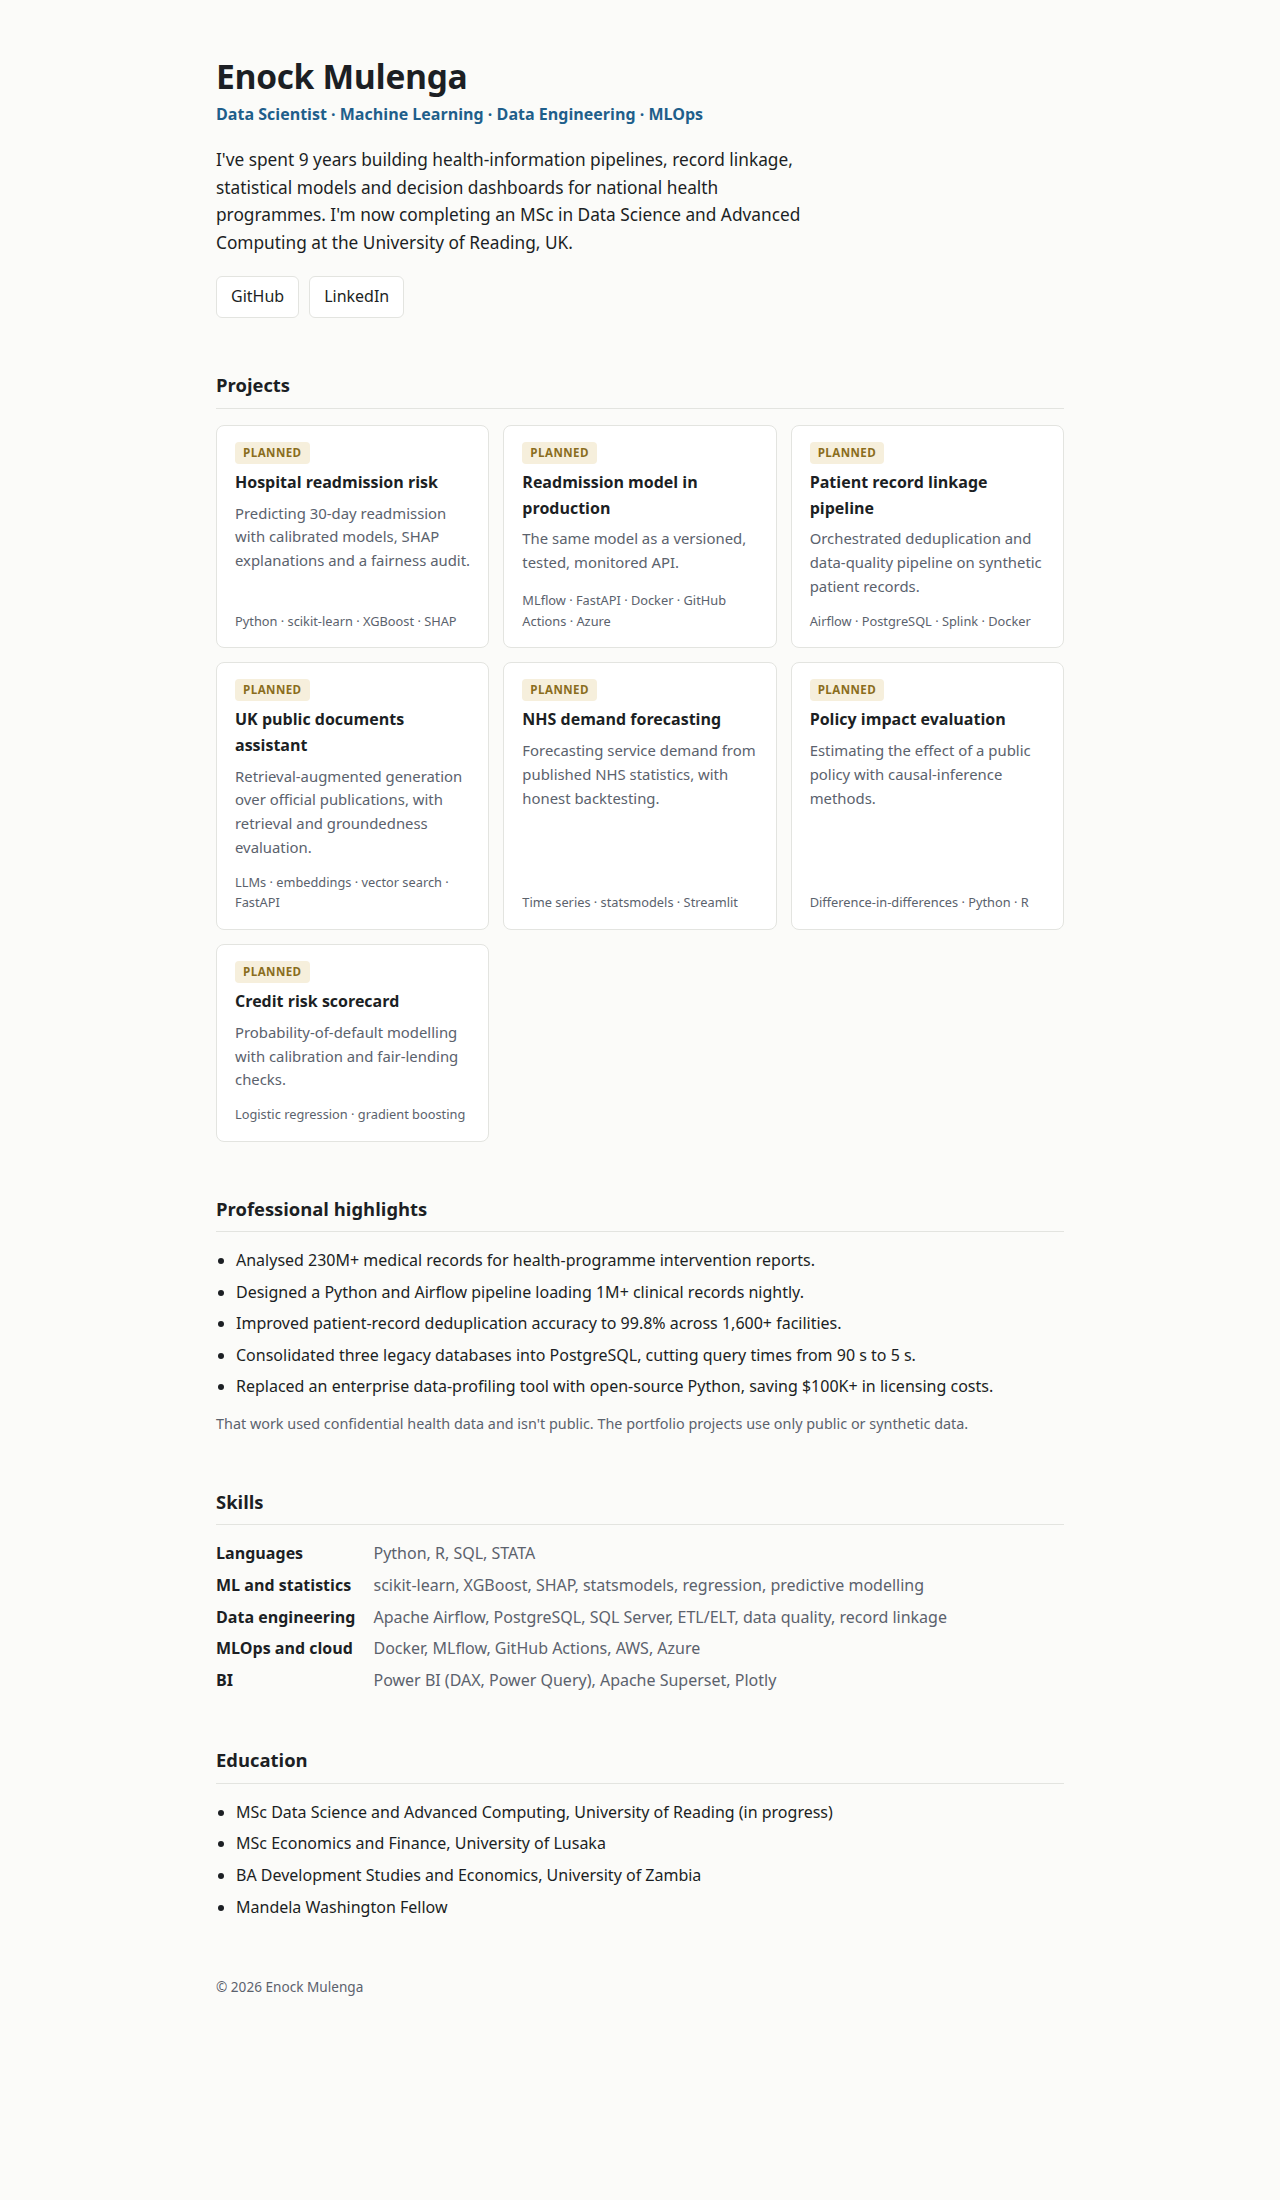
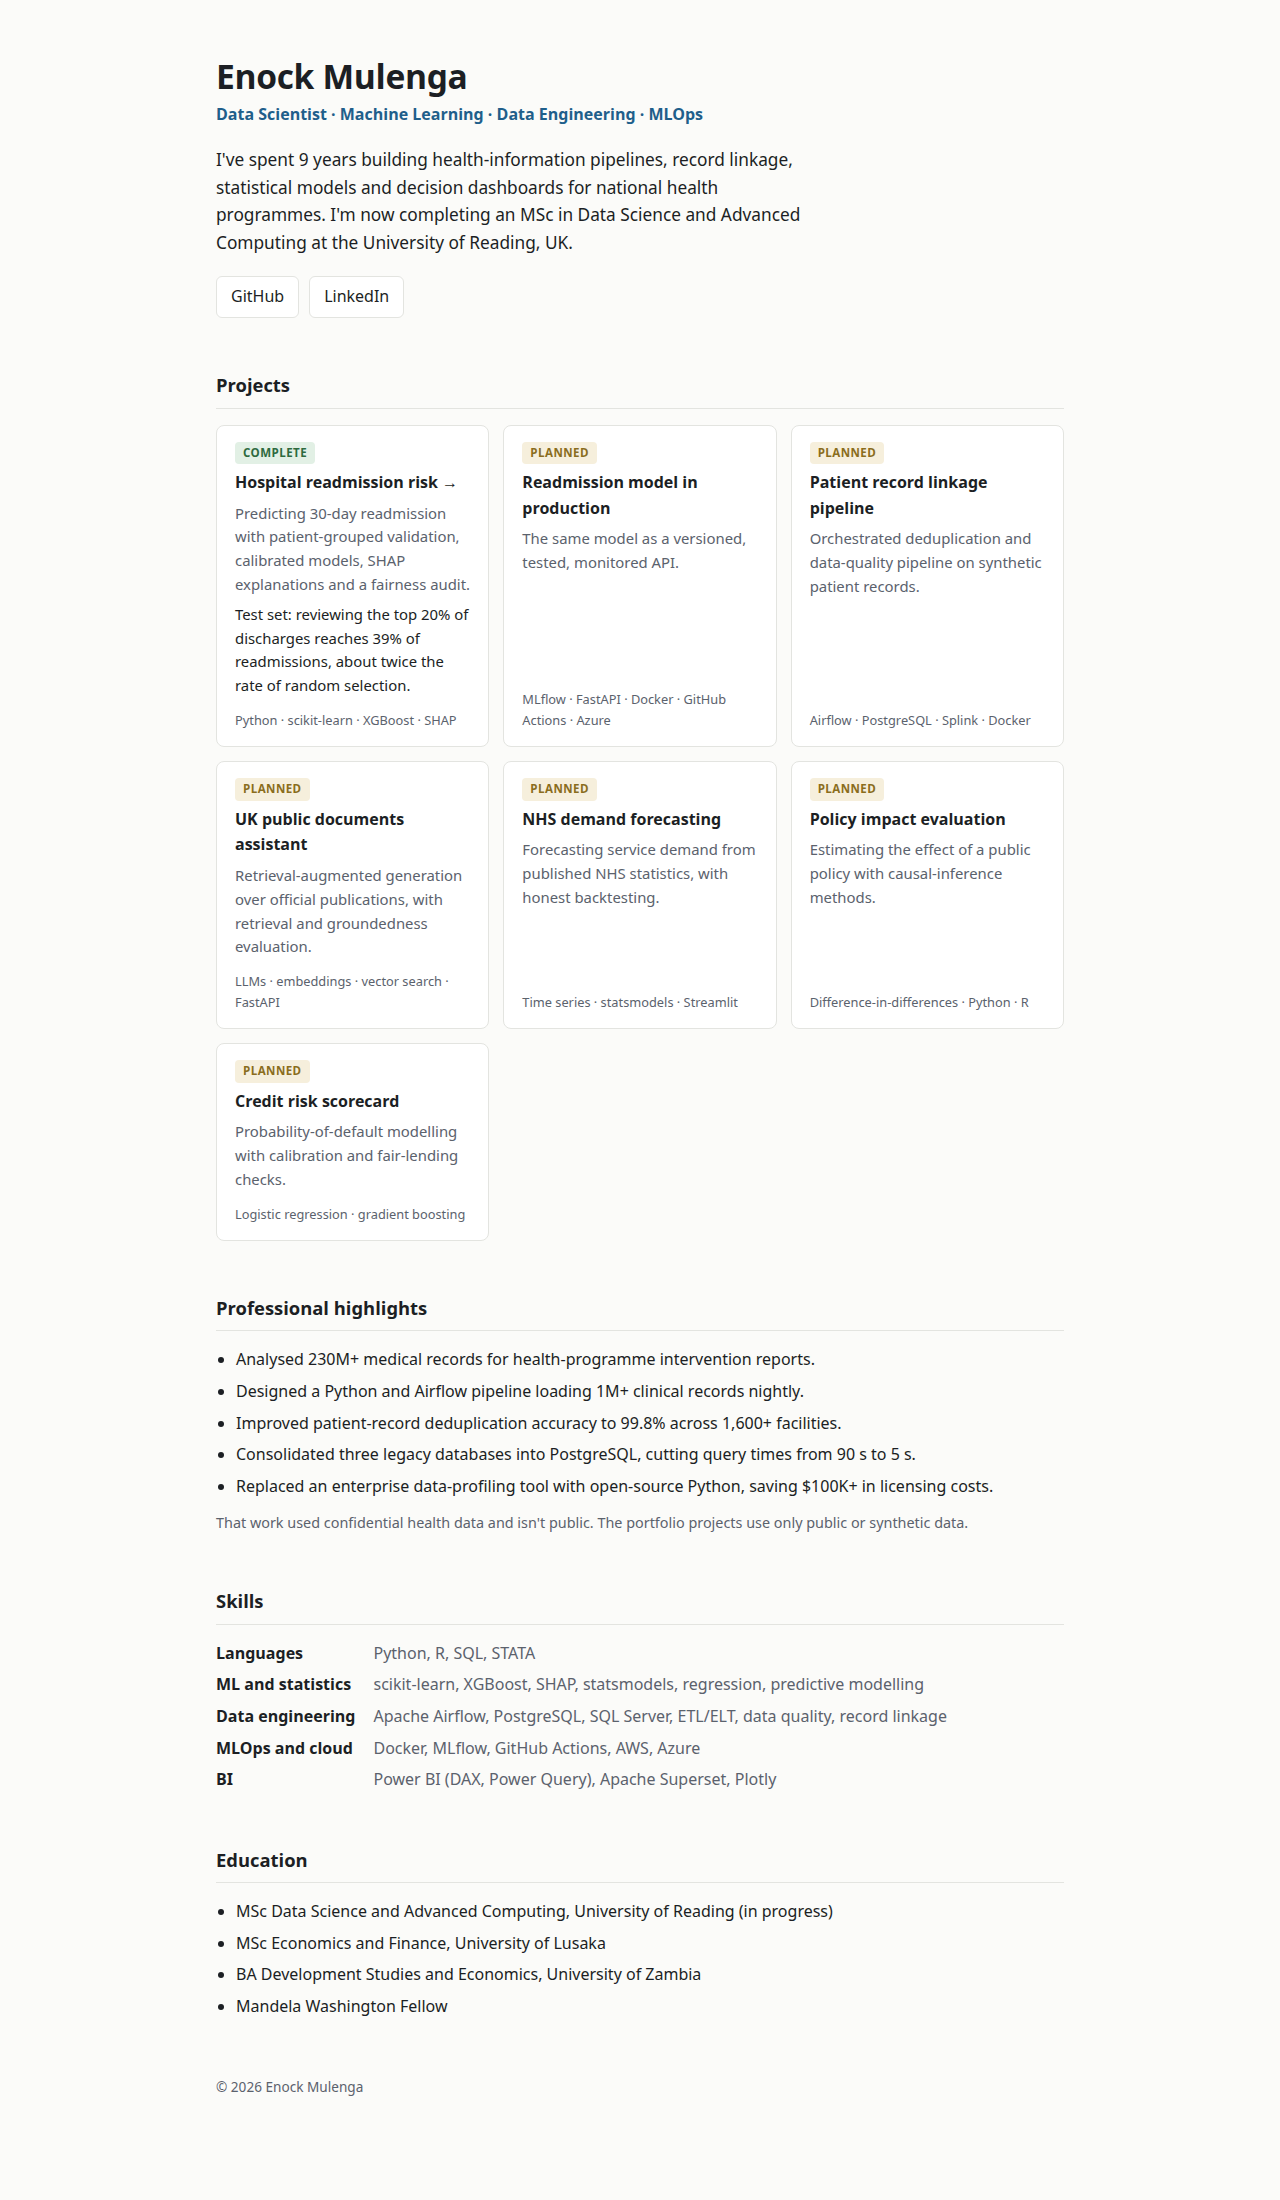
Mark readmission risk project complete and link it
- New "Complete" status style (light 5.5:1, dark 8.2:1 contrast).
- Card links to the public repo and states the test-set result:
  top 20% of discharges reaches 39% of readmissions.
- Refreshed README screenshot.

diff --git a/index.html b/index.html
@@ -10,12 +10,14 @@
       --bg: #fbfbf9; --surface: #ffffff; --text: #1c1f24; --muted: #5b626d;
       --border: #e3e4e0; --accent: #1f5f8b; --accent-soft: #e6eff6;
       --planned: #8a6d1d; --planned-bg: #f6efdc;
+      --complete: #2d6a3e; --complete-bg: #e2f0e5;
     }
     @media (prefers-color-scheme: dark) {
       :root {
         --bg: #14171b; --surface: #1b1f24; --text: #e7e9ec; --muted: #a0a7b1;
         --border: #2c3138; --accent: #7fb4dc; --accent-soft: #1f2d3a;
         --planned: #e0c378; --planned-bg: #2e2816;
+        --complete: #8fd3a0; --complete-bg: #1b2e21;
       }
     }
     * { box-sizing: border-box; }
@@ -47,6 +49,10 @@
       letter-spacing: 0.04em; padding: 2px 8px; border-radius: 4px;
       color: var(--planned); background: var(--planned-bg);
     }
+    .status.complete { color: var(--complete); background: var(--complete-bg); }
+    .card h3 a { color: inherit; text-decoration: none; }
+    .card h3 a:hover { color: var(--accent); text-decoration: underline; }
+    .card .result { color: var(--text); }
     ul.facts { padding-left: 20px; margin: 0; }
     ul.facts li { margin-bottom: 6px; }
     .note { color: var(--muted); font-size: 0.9rem; margin-top: 12px; }
@@ -76,7 +82,7 @@
     <section>
       <h2>Projects</h2>
       <div class="grid">
-        <article class="card"><span class="status">Planned</span><h3>Hospital readmission risk</h3><p>Predicting 30-day readmission with calibrated models, SHAP explanations and a fairness audit.</p><div class="tags">Python · scikit-learn · XGBoost · SHAP</div></article>
+        <article class="card"><span class="status complete">Complete</span><h3><a href="https://github.com/MulengaSnr/readmission-risk-model">Hospital readmission risk &rarr;</a></h3><p>Predicting 30-day readmission with patient-grouped validation, calibrated models, SHAP explanations and a fairness audit.</p><p class="result">Test set: reviewing the top 20% of discharges reaches 39% of readmissions, about twice the rate of random selection.</p><div class="tags">Python · scikit-learn · XGBoost · SHAP</div></article>
         <article class="card"><span class="status">Planned</span><h3>Readmission model in production</h3><p>The same model as a versioned, tested, monitored API.</p><div class="tags">MLflow · FastAPI · Docker · GitHub Actions · Azure</div></article>
         <article class="card"><span class="status">Planned</span><h3>Patient record linkage pipeline</h3><p>Orchestrated deduplication and data-quality pipeline on synthetic patient records.</p><div class="tags">Airflow · PostgreSQL · Splink · Docker</div></article>
         <article class="card"><span class="status">Planned</span><h3>UK public documents assistant</h3><p>Retrieval-augmented generation over official publications, with retrieval and groundedness evaluation.</p><div class="tags">LLMs · embeddings · vector search · FastAPI</div></article>
